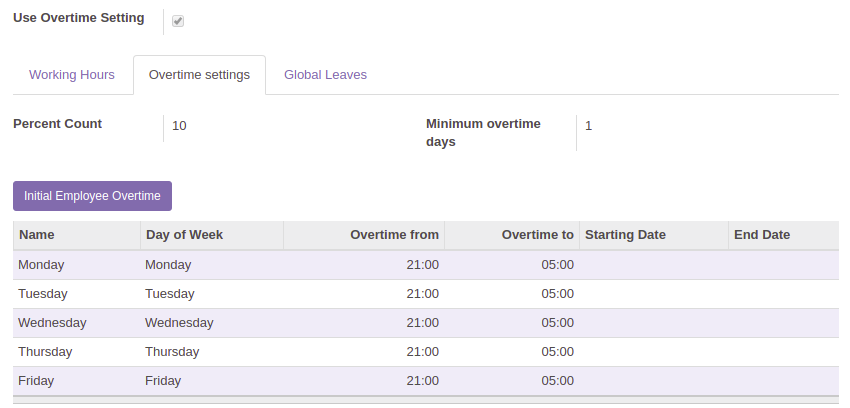
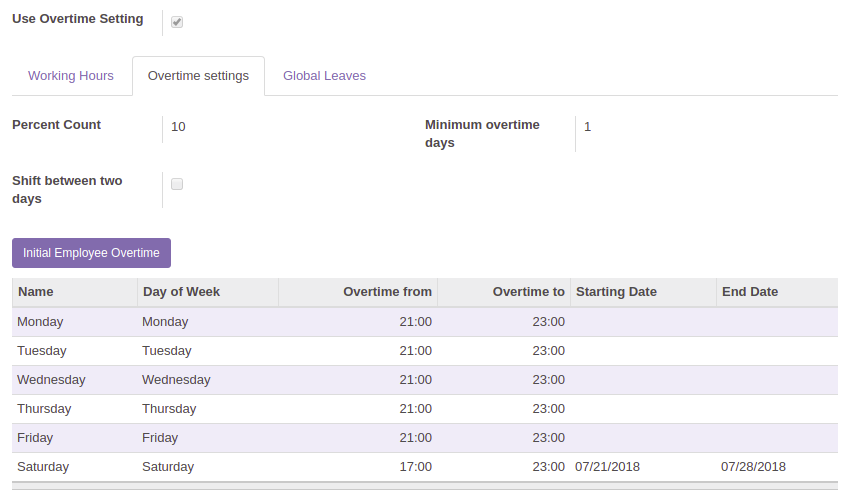
dev_11 [DEV] Employee Time Clock Extension module description view

diff --git a/hr_employee_time_clock_extension/static/description/index.html b/hr_employee_time_clock_extension/static/description/index.html
@@ -17,6 +17,7 @@
                 <li><i>"Percent Count"</i> which represent salary increment;</li>
                 <li><i>"Minimum overtime days"</i> which allows to set up how many days employee should work to have an increased salary;</li>
                 <li>Days of week and overtime working hours, start/end date for each weekday;</li>
+                <li><i>Shift between two days</i> which allows to use night shift between two days.</li>
             </ul>
             <img class="oe_picture oe_screenshot" src="Screenshot-7.png" alt=""><br/>
             <img class="oe_picture oe_screenshot" src="Screenshot-6.png" alt="">
@@ -68,10 +69,13 @@
                     <img class="oe_picture oe_screenshot" src="Screenshot-4.png" alt="">
                 </li>
                 <li>Go to <i>Overtime settings</i> tab and set up overtime configurations.
-                    <img class="oe_picture oe_screenshot" src="Screenshot-5.png" alt="">
+                    <img class="oe_picture oe_screenshot" src="Screenshot-9.png" alt="">
                 </li>
-                <li>Press <i>Initial Employee Overtime</i> button.
+                <li>Press <i>Initial Employee Overtime</i> button to calculate employees' overtime.
                     <img class="oe_picture oe_screenshot" src="Screenshot-8.png" alt="">
+                </li>
+                <li>Press <i>Save</i> button to save overtime configurations.
+                    <img class="oe_picture oe_screenshot" src="Screenshot-10.png" alt="">
                 </li>
             </ul>
         </p>
